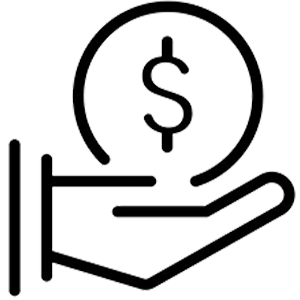
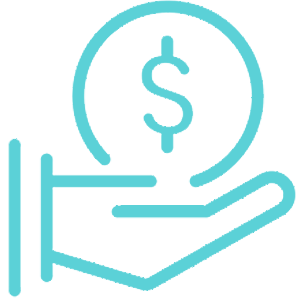
update portifolio nos projetos

Changed region(s): [[0.12, 0.0, 0.99, 0.99], [0.0, 0.45, 0.09, 0.99], [0.45, 0.12, 0.66, 0.51]]

diff --git a/index.html b/index.html
@@ -82,19 +82,19 @@
 
                 <div id="todos-projetos">
                     <section data-anime="left" id="pizzaria-button" onclick="funcpizza()" >
-                        <img src="Imagens-videos/Projetos/gestor-pizzaria-img.png" alt="Gestor administrativo pizzaria" title="Pizzaria">
+                        <img src="Imagens-videos/Projetos/pizza-logo.png" alt="Gestor administrativo pizzaria" title="Pizzaria">
                     </section>
                     <section data-anime="left" id="flixwag-button" onclick="funcflixwag()">
-                        <img src="Imagens-videos/Projetos/flixwag-img.png" alt="WagFlix" title="Filmes recém lançados">
+                        <img src="Imagens-videos/Projetos/icon-filme.png" alt="WagFlix" title="Filmes recém lançados">
                     </section>
                     <section data-anime="down" id="minhastarefas-button" onclick="funcminhastarefas()">
-                        <img src="Imagens-videos/Projetos/minhas-tarefas-img.png" alt="Minhas Tarefas" title="Minhas tarefas">
+                        <img src="Imagens-videos/Projetos/minhas-tarefas-logo.png" alt="Minhas Tarefas" title="Minhas tarefas">
                     </section>
                     <section data-anime="right" id="quiz-button" onclick="funcquiz()">
-                        <img src="Imagens-videos/Projetos/quiz-front-end.png" alt="Quiz Front-End" title="Quiz Front-End">
+                        <img src="Imagens-videos/Projetos/quiz-icon.png" alt="Quiz Front-End" title="Quiz Front-End">
                     </section>
                     <section data-anime="right" id="financeiro-button" onclick="funcfinanceiro()" >
-                        <img src="Imagens-videos/Projetos/controle-financeiro.png" alt="">
+                        <img src="Imagens-videos/Projetos/controle-financeiro-icon.png" alt="">
                     </section>
                 </div>
 
@@ -114,91 +114,81 @@
                                 Projeto pessoal feito utilizando HTML, CSS e JavaScript com o intuito de administrar o caixa e as mesas do restaurante.
                             </h4>
                             <p>
-                                <strong>GitHub:</strong><a href="https://github.com/wagnerwg0202/gestor-pizzaria"> github.com/wagnerwg0202/gestor-pizzaria</a>
+                                <a href="https://github.com/wagnerwg0202/gestor-pizzaria"target="_blank"> <strong>Clique para acesar o repositório GitHub.</strong></a>
                             </p>
                             <p>
-                                <strong>Live:</strong><a href="https://gestaopizzaria.netlify.app/"> gestaopizzaria.netlify.app/</a>
+                                <a href="https://gestaopizzaria.netlify.app/" target="_blank"><strong>Click para acompanhar o projeto em execução.</strong></a>
                             </p>
                         </div>
                     </section>
                     <section id="flixwag" >
                         <h2>FlixWag</h2>
                         <div class="imagens-projetos drag-flixwag">
-                            <img src="Imagens-videos/Projetos/pizzaria-imagens/1.png" alt="">
-                            <img src="Imagens-videos/Projetos/pizzaria-imagens/2.png" alt="">
-                            <img src="Imagens-videos/Projetos/pizzaria-imagens/3.png" alt="">
-                            <img src="Imagens-videos/Projetos/pizzaria-imagens/4.png" alt="">
-                            <img src="Imagens-videos/Projetos/pizzaria-imagens/5.png" alt="">
-                            <img src="Imagens-videos/Projetos/pizzaria-imagens/6.png" alt="">
+                            <img src="Imagens-videos/Projetos/flixwag-imagens/1.png" alt="">
+                            <img src="Imagens-videos/Projetos/flixwag-imagens/2.png" alt="">
+                            <img src="Imagens-videos/Projetos/flixwag-imagens/3.png" alt="">
                         </div>
                         <div class="text-projetos">
                             <h4>
                                 Projeto pessoal feito com ReactJS, consumindo API de filmes e sendo possível salvar favoritos no LocalStore.
                             </h4>
                             <p>
-                                <strong>GitHub:</strong><a href="https://github.com/wagnerwg0202/flixwag-filmes">github.com/wagnerwg0202/flixwag-filmes</a>
+                                <a href="https://github.com/wagnerwg0202/flixwag-filmes" target="_blank"><strong>Clique para acesar o repositório GitHub.</strong></a>
                             </p>
                             <p>
-                                <strong>Live:</strong><a href="https://flixwag-lancamentos.netlify.app/">flixwag-lancamentos.netlify.app/</a>
+                                <a href="https://flixwag-lancamentos.netlify.app/" target="_blank" ><strong>Click para acompanhar o projeto em execução.</strong></a>
                             </p>
                             <p>
-                                <strong>API:</strong><a href="https://www.themoviedb.org/">www.themoviedb.org/</a>
+                                <a href="https://www.themoviedb.org/" target="_blank" ><strong>Clique para ter acesso a API</strong></a>
                             </p>
                         </div>
                     </section>
                     <section id="minhastarefas" >
                         <h2>Lista de Tarefas</h2>
                         <div class="imagens-projetos drag-minhas-tarefas">
-                            <img src="Imagens-videos/Projetos/pizzaria-imagens/1.png" alt="">
-                            <img src="Imagens-videos/Projetos/pizzaria-imagens/2.png" alt="">
-                            <img src="Imagens-videos/Projetos/pizzaria-imagens/3.png" alt="">
-                            <img src="Imagens-videos/Projetos/pizzaria-imagens/4.png" alt="">
-                            <img src="Imagens-videos/Projetos/pizzaria-imagens/5.png" alt="">
-                            <img src="Imagens-videos/Projetos/pizzaria-imagens/6.png" alt="">
+                            <img src="Imagens-videos/Projetos/tarefas-imagens/1.png" alt="">
+                            <img src="Imagens-videos/Projetos/tarefas-imagens/2.png" alt="">
+                            <img src="Imagens-videos/Projetos/tarefas-imagens/3.png" alt="">
                         </div>
                         <div class="text-projetos">
                             <h4>
-                                Projeto pessoal feito com ReactJS e utilizando FireBase como banco de dados.
+                                Projeto pessoal feito com ReactJS sendo possivel efetuar login, adicionar tarefas, editar tarefas, excluir tarefas e concluir tarefas.<br> Utilizando o fire base como banco de dados.
                             </h4>
                             <p>
-                                <strong>GitHub:</strong><a href="https://github.com/wagnerwg0202/minhas-tarefas">github.com/wagnerwg0202/minhas-tarefas</a>
+                                <a href="https://github.com/wagnerwg0202/minhas-tarefas" target="_blank"><strong>Clique para acesar o repositório GitHub.</strong></a>
                             </p>
                             <p>
-                                <strong>Live:</strong><a href="https://minhas-tarefas-wg.netlify.app/ ">minhas-tarefas-wg.netlify.app/</a>
+                                <a href="https://minhas-tarefas-wg.netlify.app/ "target="_blank" ><strong>Click para acompanhar o projeto em execução.</strong></a>
                             </p>
                         </div>
                     </section>
                     <section id="quiz" >
                         <h2>Quiz Front-End</h2>
                         <div class="imagens-projetos drag-quiz">
-                            <img src="Imagens-videos/Projetos/pizzaria-imagens/1.png" alt="">
-                            <img src="Imagens-videos/Projetos/pizzaria-imagens/2.png" alt="">
-                            <img src="Imagens-videos/Projetos/pizzaria-imagens/3.png" alt="">
-                            <img src="Imagens-videos/Projetos/pizzaria-imagens/4.png" alt="">
-                            <img src="Imagens-videos/Projetos/pizzaria-imagens/5.png" alt="">
-                            <img src="Imagens-videos/Projetos/pizzaria-imagens/6.png" alt="">
+                            <img src="Imagens-videos/Projetos/quiz-imagens/1.png" alt="">
+                            <img src="Imagens-videos/Projetos/quiz-imagens/2.png" alt="">
+                            <img src="Imagens-videos/Projetos/quiz-imagens/3.png" alt="">
+                            <img src="Imagens-videos/Projetos/quiz-imagens/4.png" alt="">
+                            <img src="Imagens-videos/Projetos/quiz-imagens/5.png" alt="">
                         </div>
                         <div class="text-projetos">
                             <h4>
                                 Projeto pessoal feito com ReactJS no intuito de testar conhecimentos front-end com 15 perguntas envolvendo HTML, CSS e JavaScript.
                             </h4>
                             <p>
-                                <strong>GitHub:</strong><a href="https://github.com/wagnerwg0202/quiz-front-end-react">github.com/wagnerwg0202/quiz-front-end-react</a>
+                                <a href="https://github.com/wagnerwg0202/quiz-front-end-react" target="_blank"><strong>Clique para acesar o repositório GitHub.</strong></a>
                             </p>
                             <p>
-                                <strong>Live:</strong><a href="https://quiz-front-end.netlify.app/">quiz-front-end.netlify.app/</a>
+                                <a href="https://quiz-front-end.netlify.app/"target="_blank" ><strong>Click para acompanhar o projeto em execução.</strong></a>
                             </p>
                         </div>
                     </section>
                     <section id="financeiro" >
                         <h2>Controle Financeiro</h2>
                         <div class="imagens-projetos drag-financeiro">
-                            <img src="Imagens-videos/Projetos/pizzaria-imagens/1.png" alt="">
-                            <img src="Imagens-videos/Projetos/pizzaria-imagens/2.png" alt="">
-                            <img src="Imagens-videos/Projetos/pizzaria-imagens/3.png" alt="">
-                            <img src="Imagens-videos/Projetos/pizzaria-imagens/4.png" alt="">
-                            <img src="Imagens-videos/Projetos/pizzaria-imagens/5.png" alt="">
-                            <img src="Imagens-videos/Projetos/pizzaria-imagens/6.png" alt="">
+                            <img src="Imagens-videos/Projetos/financeiro-imagens/1.png" alt="">
+                            <img src="Imagens-videos/Projetos/financeiro-imagens/2.png" alt="">
+                            <img src="Imagens-videos/Projetos/financeiro-imagens/3.png" alt="">
                         </div>
                         <div class="text-projetos">
                             <h4>
@@ -206,10 +196,10 @@
                                 Também temos uma tabela com os detalhes de seu montante sendo possibilitado exclusão do mesmo.
                             </h4>
                             <p>
-                                <strong>GitHub:</strong><a href="https://github.com/wagnerwg0202/controle-financeiro-react">github.com/wagnerwg0202/controle-financeiro-react</a>
+                                <a href="https://github.com/wagnerwg0202/controle-financeiro-react"target="_blank"><strong>Clique para acesar o repositório GitHub.</strong></a>
                             </p>
                             <p>
-                                <strong>Live:</strong><a href="https://minhas-tarefas-wg.netlify.app/">minhas-tarefas-wg.netlify.app/</a>
+                                <strong>Live:</strong><a href="https://controle-financeiro-wagner.netlify.app/"target="_blank" ><strong>Click para acompanhar o projeto em execução.</strong></a>
                             </p>
                         </div>
                     </section>

diff --git a/style/style.css b/style/style.css
@@ -247,8 +247,16 @@ main .text {
     font-weight: 600;
 }
 .text-projetos a{
+    font-family: 'Times New Roman', Times, serif;
     text-decoration: none;
+    color: #5bd1d7;
+    transition: 0.2;
+    font-size: 16px;
+}
+.text-projetos a:hover{
     color: #fff;
+    font-weight: bold;
+    font-size: 18px;
 }
 
 
